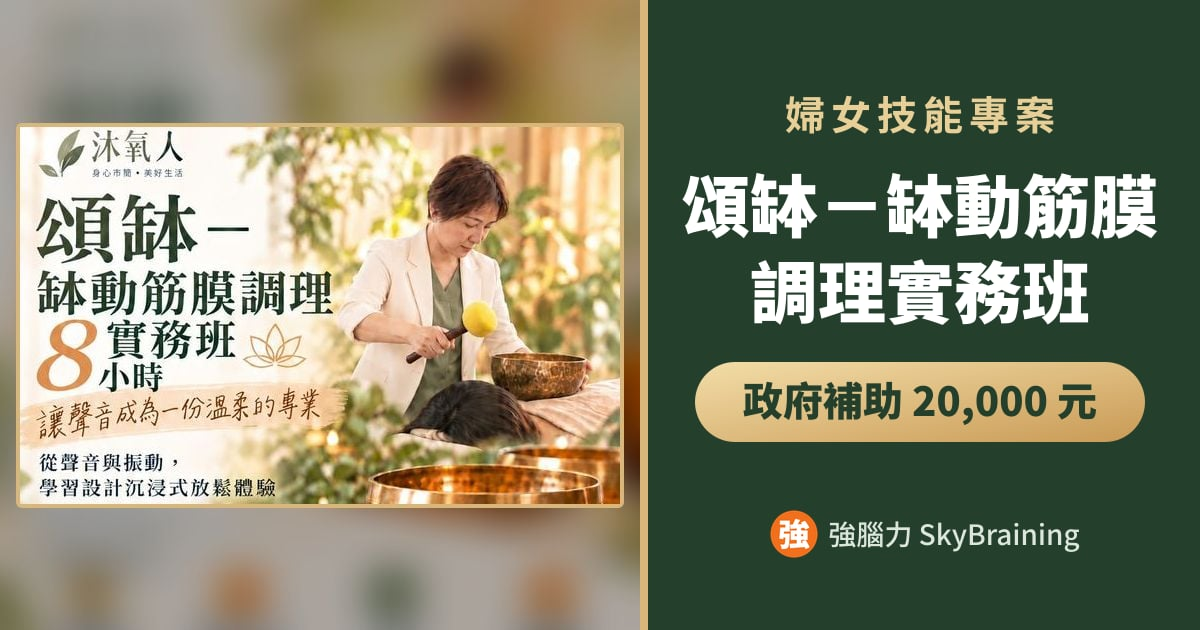
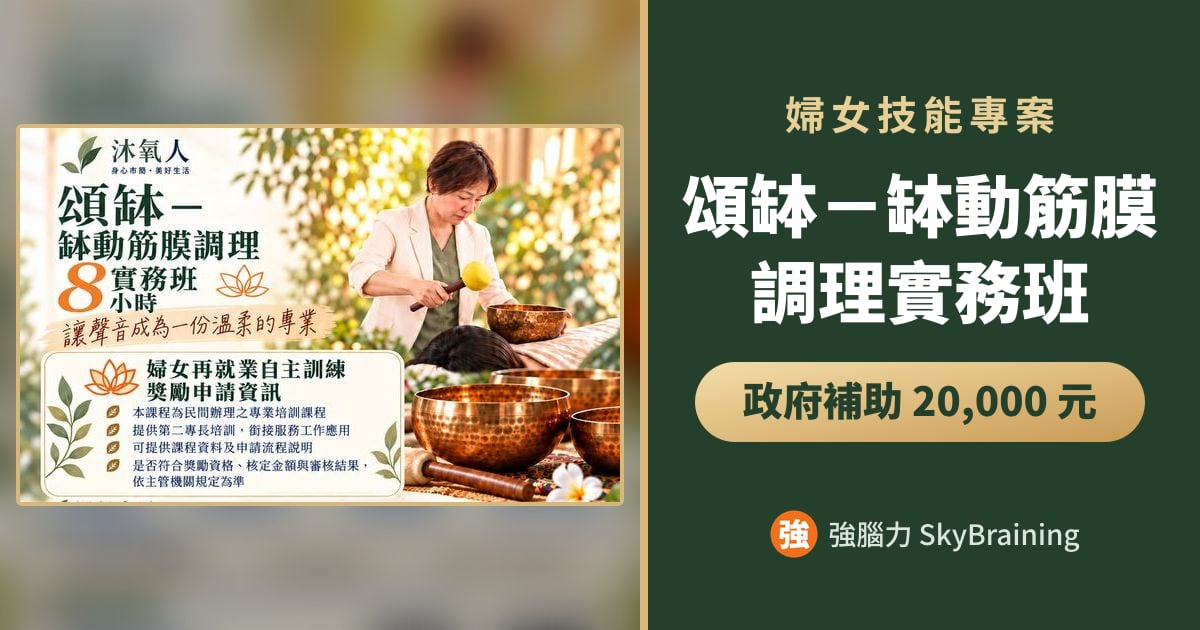
T338：頌缽報名頁與介紹頁換 v3 海報（繞缽修正、獎勵申請資訊、報名截止 11/28）＋分享圖重做、各卡片版本號

diff --git a/course-pro-singingbowl.html b/course-pro-singingbowl.html
@@ -176,13 +176,13 @@
 <meta property="og:title" content="頌缽－缽動筋膜調理實務班・史麗仙老師｜強腦力 SkyBraining">
 <meta property="og:description" content="史麗仙老師的頌缽－缽動筋膜調理實務班：8 小時實體課，2026/12/19(六) 9:00-17:00 在明新科技大學立緒樓上課。從頌缽認識與音色探索、敲擊與繞缽實作技巧、20 分鐘放鬆引導演練，到服務接待與工作應用。沐氧人辦訓，明新科技大學樂齡服務產業管理系協辦，婦女再就業補助線上報名。">
 <meta property="og:url" content="https://skybraining.com/course-pro-singingbowl.html">
-<meta property="og:image" content="https://skybraining.com/img-funv-singingbowl-poster.jpg">
-<meta property="og:image:width" content="1024">
-<meta property="og:image:height" content="1536">
+<meta property="og:image" content="https://skybraining.com/img-funv-singingbowl-poster.jpg?v=3">
+<meta property="og:image:width" content="1122">
+<meta property="og:image:height" content="1402">
 <meta property="og:image:alt" content="頌缽－缽動筋膜調理實務班 課程海報">
 <meta property="og:locale" content="zh_TW">
 <meta name="twitter:card" content="summary_large_image">
-<meta name="twitter:image" content="https://skybraining.com/img-funv-singingbowl-poster.jpg">
+<meta name="twitter:image" content="https://skybraining.com/img-funv-singingbowl-poster.jpg?v=3">
 <script type="application/ld+json">
 {"@context":"https://schema.org","@type":"Course","name":"頌缽－缽動筋膜調理實務班","description":"史麗仙老師的頌缽－缽動筋膜調理實務班：8 小時實體課，2026/12/19(六) 9:00-17:00 在明新科技大學立緒樓上課。從頌缽認識與音色探索、敲擊與繞缽實作技巧、20 分鐘放鬆引導演練，到服務接待與工作應用。沐氧人辦訓，明新科技大學樂齡服務產業管理系協辦，婦女再就業補助線上報名。","url":"https://skybraining.com/course-pro-singingbowl.html","image":"https://skybraining.com/img-funv-singingbowl-poster.jpg","inLanguage":"zh-Hant","provider":{"@type":"Organization","name":"沐氧人"},"hasCourseInstance":{"@type":"CourseInstance","courseMode":"Onsite","courseWorkload":"PT8H","startDate":"2026-12-19T09:00+08:00","endDate":"2026-12-19T17:00+08:00","location":{"@type":"Place","name":"明新科技大學立緒樓502教室","address":{"@type":"PostalAddress","streetAddress":"新興路1號","addressLocality":"新豐鄉","addressRegion":"新竹縣","addressCountry":"TW"}},"instructor":{"@type":"Person","name":"史麗仙"}},"offers":{"@type":"Offer","price":"20000","priceCurrency":"TWD","category":"Paid","url":"https://skybraining.com/funv-apply-singingbowl.html"},"contributor":{"@type":"CollegeOrUniversity","name":"明新科技大學樂齡服務產業管理系"}}
 </script>
@@ -223,7 +223,7 @@
         </div>
         <div class="c-microtrust">2026/12/19(六)・8 小時實體課・新竹明新科技大學</div>
       </div>
-      <figure class="c-poster reveal"><img src="img-funv-singingbowl-poster.jpg" width="1024" height="1536" fetchpriority="high" decoding="async" alt="頌缽－缽動筋膜調理實務班 課程海報：史麗仙老師，讓聲音成為一份溫柔的專業，8 小時實務班，沐氧人辦訓、明新科技大學樂齡服務產業管理系協辦"></figure>
+      <figure class="c-poster reveal"><img src="img-funv-singingbowl-poster.jpg?v=3" width="1122" height="1402" fetchpriority="high" decoding="async" alt="頌缽－缽動筋膜調理實務班 課程海報：史麗仙老師，讓聲音成為一份溫柔的專業，8 小時實務班，沐氧人辦訓、明新科技大學樂齡服務產業管理系協辦"></figure>
     </div>
   </div>
 </header>
@@ -239,6 +239,7 @@
         <dt>訓練時數</dt><dd>8小時</dd>
         <dt>課程費用</dt><dd>新臺幣20,000元</dd>
         <dt>上課日期</dt><dd>2026/12/19(六)</dd>
+        <dt>報名截止</dt><dd>2026/11/28(六)</dd>
         <dt>上課時段</dt><dd>9:00-17:00</dd>
         <dt>上課地點</dt><dd>新竹縣新豐鄉新興路１號　明新科技大學立緒樓５０２教室</dd>
         <dt>正式辦訓單位</dt><dd>沐氧人</dd>

diff --git a/courses.html b/courses.html
@@ -417,7 +417,7 @@
 <a href="course-pro-tilin.html"><img src="img-funv-tilin-poster.jpg" alt="初階泰式高床按摩" decoding="async" style="object-position:50% 0"></a>
 <a href="course-pro-miaozhu.html"><img src="img-funv-miaozhu-poster.jpg" alt="美容講座" decoding="async" style="object-position:50% 0"></a>
 <a href="course-pro-cooking.html"><img src="img-funv-cooking-poster.jpg" alt="中餐料理實作班" decoding="async" style="object-position:50% 0"></a>
-<a href="course-pro-singingbowl.html"><img src="img-funv-singingbowl-poster.jpg" alt="頌缽－缽動筋膜調理實務班" decoding="async" style="object-position:50% 0"></a>
+<a href="course-pro-singingbowl.html"><img src="img-funv-singingbowl-poster.jpg?v=3" alt="頌缽－缽動筋膜調理實務班" decoding="async" style="object-position:50% 0"></a>
 <a href="course-pro-yuting.html"><img src="img-funv-yuting-poster.jpg" alt="包租代管實戰班（葉毓亭）" decoding="async" style="object-position:50% 0"></a>
 <a href="course-pro-rental.html"><img src="img-pro-rental-935.jpg" alt="包租代管實戰班（張育誠）" decoding="async"></a>
 </div></div></div>
@@ -442,7 +442,7 @@
 
         <a class="pcard" href="course-pro-miaozhu.html"><img src="img-funv-miaozhu-poster.jpg" alt="美容講座課程海報" loading="lazy" decoding="async" style="object-position:50% 0"><div class="pcap"><span class="pt">美容講座</span><span class="pp">NT$20,000・了解課程 →</span></div></a>
         <a class="pcard" href="course-pro-cooking.html"><img src="img-funv-cooking-poster.jpg" alt="中餐料理實作班課程海報" loading="lazy" decoding="async" style="object-position:50% 0"><div class="pcap"><span class="pt">中餐料理實作班</span><span class="pp">NT$20,000・了解課程 →</span></div></a>
-        <a class="pcard" href="course-pro-singingbowl.html"><img src="img-funv-singingbowl-poster.jpg" alt="頌缽－缽動筋膜調理實務班課程海報" loading="lazy" decoding="async" style="object-position:50% 0"><div class="pcap"><span class="pt">頌缽－缽動筋膜調理實務班</span><span class="pp">NT$20,000・了解課程 →</span></div></a>
+        <a class="pcard" href="course-pro-singingbowl.html"><img src="img-funv-singingbowl-poster.jpg?v=3" alt="頌缽－缽動筋膜調理實務班課程海報" loading="lazy" decoding="async" style="object-position:50% 0"><div class="pcap"><span class="pt">頌缽－缽動筋膜調理實務班</span><span class="pp">NT$20,000・了解課程 →</span></div></a>
         <a class="pcard" href="course-pro-yuting.html"><img src="img-funv-yuting-poster.jpg" alt="包租代管實戰班（葉毓亭）課程海報" loading="lazy" decoding="async" style="object-position:50% 0"><div class="pcap"><span class="pt">包租代管實戰班（葉毓亭）</span><span class="pp">NT$20,000・了解課程 →</span></div></a>
 
         <a class="pcard" href="course-pro-rental.html"><img src="img-pro-rental-935.jpg" alt="包租代管實戰班（張育誠）課程海報" loading="lazy" decoding="async"><div class="pcap"><span class="pt">包租代管實戰班（張育誠）</span><span class="pp">NT$19,800・了解課程 →</span></div></a>

diff --git a/pro.html b/pro.html
@@ -168,7 +168,7 @@ footer{padding:36px 24px;text-align:center;color:var(--ink-soft);font-size:13px}
     <a class="ccard" href="course-pro-tilin.html"><img src="img-funv-tilin-poster.jpg" alt="初階泰式高床按摩" style="object-position:50% 0"><div class="bd"><div class="price">NT$20,000</div><div class="t-name">緹林泰式按摩專業培訓學校</div><div class="c-name">初階泰式高床按摩</div><div class="bar"><i></i></div><div class="bar-t"><span>婦女再就業補助課程</span><span class="go">課程介紹 →</span></div></div></a>
     <a class="ccard" href="course-pro-miaozhu.html"><img src="img-funv-miaozhu-poster.jpg" alt="美容講座" style="object-position:50% 0"><div class="bd"><div class="price">NT$20,000</div><div class="t-name">妙珠老師</div><div class="c-name">美容講座</div><div class="bar"><i></i></div><div class="bar-t"><span>婦女再就業補助課程</span><span class="go">課程介紹 →</span></div></div></a>
     <a class="ccard" href="course-pro-cooking.html"><img src="img-funv-cooking-poster.jpg" alt="中餐料理實作班" style="object-position:50% 0"><div class="bd"><div class="price">NT$20,000</div><div class="t-name">妙珠老師</div><div class="c-name">中餐料理實作班</div><div class="bar"><i></i></div><div class="bar-t"><span>婦女再就業補助課程</span><span class="go">課程介紹 →</span></div></div></a>
-    <a class="ccard" href="course-pro-singingbowl.html"><img src="img-funv-singingbowl-poster.jpg" alt="頌缽－缽動筋膜調理實務班" style="object-position:50% 0"><div class="bd"><div class="price">NT$20,000</div><div class="t-name">史麗仙老師</div><div class="c-name">頌缽－缽動筋膜調理實務班</div><div class="bar"><i></i></div><div class="bar-t"><span>婦女再就業補助課程</span><span class="go">課程介紹 →</span></div></div></a>
+    <a class="ccard" href="course-pro-singingbowl.html"><img src="img-funv-singingbowl-poster.jpg?v=3" alt="頌缽－缽動筋膜調理實務班" style="object-position:50% 0"><div class="bd"><div class="price">NT$20,000</div><div class="t-name">史麗仙老師</div><div class="c-name">頌缽－缽動筋膜調理實務班</div><div class="bar"><i></i></div><div class="bar-t"><span>婦女再就業補助課程</span><span class="go">課程介紹 →</span></div></div></a>
     <a class="ccard" href="course-pro-yuting.html"><img src="img-funv-yuting-poster.jpg" alt="包租代管實戰班（葉毓亭）" style="object-position:50% 0"><div class="bd"><div class="price">NT$20,000</div><div class="t-name">葉毓亭老師</div><div class="c-name">包租代管實戰班</div><div class="bar"><i></i></div><div class="bar-t"><span>婦女再就業補助課程</span><span class="go">課程介紹 →</span></div></div></a>
     <a class="ccard" href="course-pro-rental.html"><img src="img-pro-rental-935.jpg" alt="包租代管實戰班"><div class="bd"><div class="price">NT$19,800</div><div class="t-name">張育誠 Andy Chang</div><div class="c-name">包租代管實戰班</div><div class="bar"><i></i></div><div class="bar-t"><span>原價 NT$56,800</span><span class="go">課程介紹 →</span></div></div></a>
   </div>

diff --git a/funv-apply-singingbowl.html b/funv-apply-singingbowl.html
@@ -21,7 +21,7 @@
 <meta property="og:title" content="婦女再就業補助｜頌缽－缽動筋膜調理實務班報名">
 <meta property="og:description" content="離開公司職場滿 180 天、目前沒有公司勞保的女性可以申請。五個步驟填完，專人打電話跟你確認。">
 <meta property="og:url" content="https://skybraining.com/funv-apply-singingbowl.html">
-<meta property="og:image" content="https://skybraining.com/og-funv-singingbowl.jpg?v=2">
+<meta property="og:image" content="https://skybraining.com/og-funv-singingbowl.jpg?v=3">
 <meta property="og:image:width" content="1200">
 <meta property="og:image:height" content="630">
 <meta property="og:image:alt" content="頌缽－缽動筋膜調理實務班 婦女再就業補助報名">
@@ -29,7 +29,7 @@
 <meta name="twitter:card" content="summary_large_image">
 <meta name="twitter:title" content="婦女再就業補助｜頌缽－缽動筋膜調理實務班報名">
 <meta name="twitter:description" content="離開公司職場滿 180 天、目前沒有公司勞保的女性可以申請。五個步驟填完，專人打電話跟你確認。">
-<meta name="twitter:image" content="https://skybraining.com/og-funv-singingbowl.jpg?v=2">
+<meta name="twitter:image" content="https://skybraining.com/og-funv-singingbowl.jpg?v=3">
 <link rel="preconnect" href="https://fonts.googleapis.com">
 <link rel="preconnect" href="https://fonts.gstatic.com" crossorigin>
 <link href="https://fonts.googleapis.com/css2?family=Noto+Sans+TC:wght@300;400;500;700;900&family=Baloo+2:wght@500;600;700;800&display=swap" rel="stylesheet">
@@ -175,7 +175,7 @@ fieldset.f legend{padding:0;}
   <!-- 第 1 步：資格與準備 -->
   <section class="step on" id="step1" data-title="資格與準備">
     <figure class="poster">
-      <img src="img-funv-singingbowl-poster.jpg" alt="頌缽－缽動筋膜調理實務班 課程海報：史麗仙老師，讓聲音成為一份溫柔的專業，8 小時實務班，沐氧人辦訓、明新科技大學樂齡服務產業管理系協辦" width="1024" height="1536" loading="eager" decoding="async">
+      <img src="img-funv-singingbowl-poster.jpg?v=3" alt="頌缽－缽動筋膜調理實務班 課程海報：史麗仙老師，讓聲音成為一份溫柔的專業，8 小時實務班，沐氧人辦訓、明新科技大學樂齡服務產業管理系協辦" width="1122" height="1402" loading="eager" decoding="async">
     </figure>
 
     <div class="card">
@@ -186,6 +186,7 @@ fieldset.f legend{padding:0;}
         <p><b>訓練時數：</b>8小時</p>
         <p><b>課程費用：</b>新臺幣20,000元</p>
         <p><b>上課日期：</b>2026/12/19(六)</p>
+        <p><b>報名截止：</b>2026/11/28(六)</p>
         <p><b>上課時段：</b>9:00-17:00</p>
         <p><b>上課地點：</b>新竹縣新豐鄉新興路１號　明新科技大學立緒樓５０２教室</p>
         <p><b>正式辦訓單位：</b>沐氧人</p>

diff --git a/funv.html b/funv.html
@@ -259,7 +259,7 @@
     </a>
 
     <a class="card fcard" href="funv-apply-singingbowl.html">
-      <div class="fthumb"><img src="img-funv-singingbowl-poster.jpg" alt="頌缽－缽動筋膜調理實務班 課程海報・史麗仙老師" width="1024" height="1536" loading="lazy" decoding="async"></div>
+      <div class="fthumb"><img src="img-funv-singingbowl-poster.jpg?v=3" alt="頌缽－缽動筋膜調理實務班 課程海報・史麗仙老師" width="1122" height="1402" loading="lazy" decoding="async"></div>
       <div class="fbody">
         <h3 class="fname">頌缽－缽動筋膜調理實務班</h3>
         <p class="fteacher">史麗仙老師</p>
